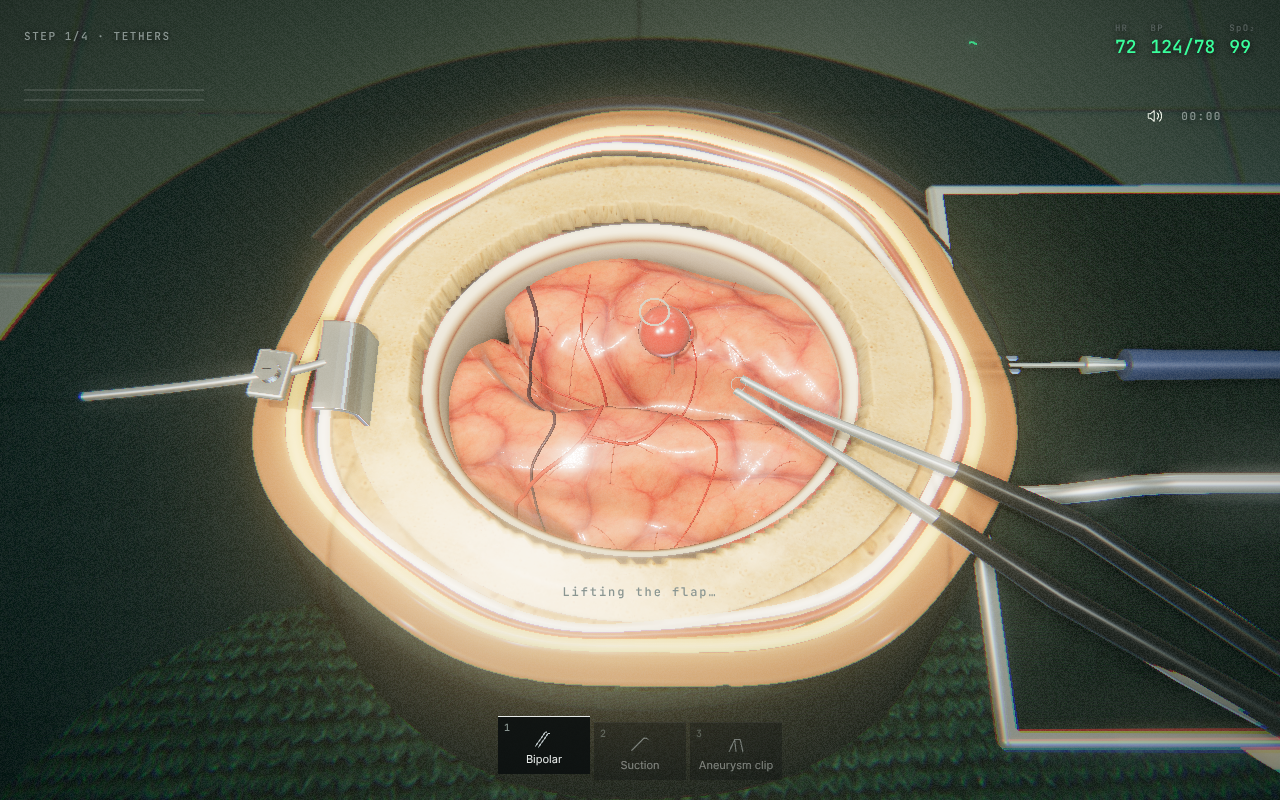
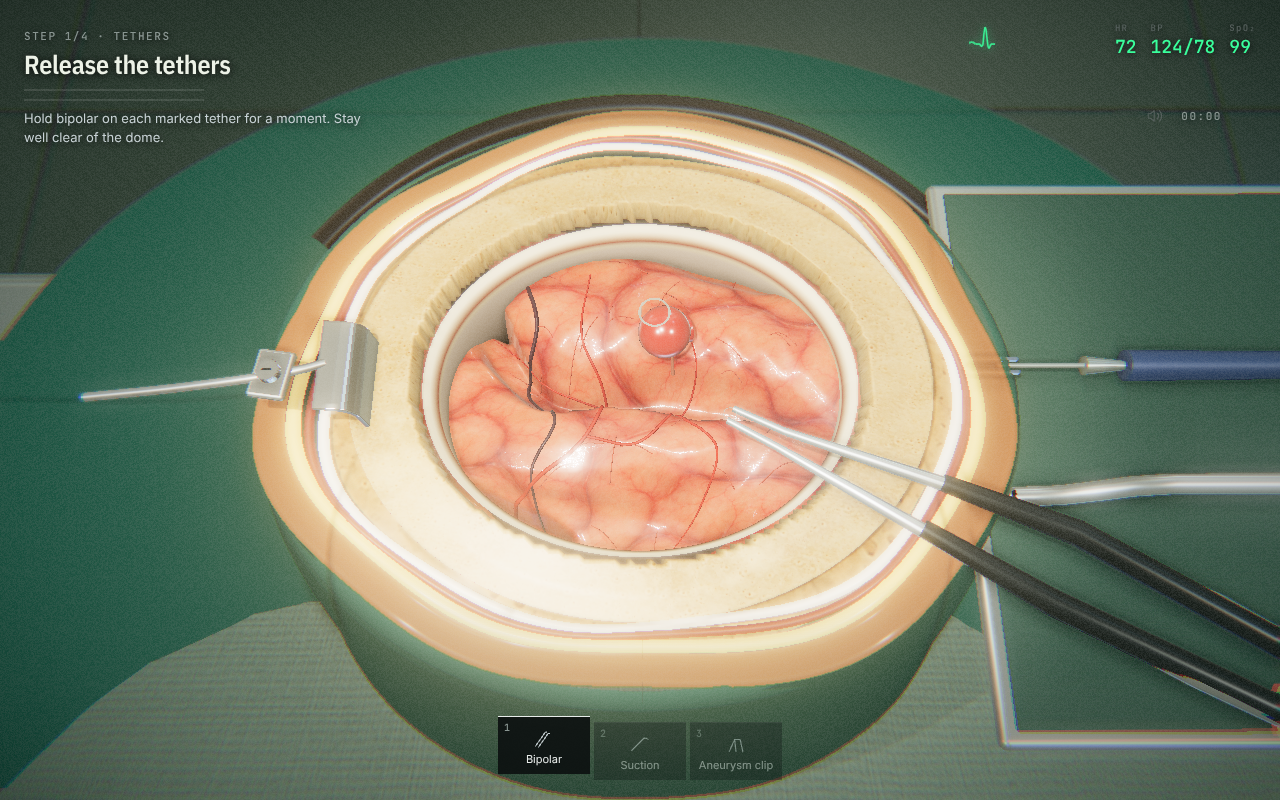
R3: surgical poplin drape texture (Poly Haven CC0), HDRLoader

diff --git a/src/game/engine.ts b/src/game/engine.ts
@@ -1,7 +1,7 @@
 import * as THREE from "three";
 import { GLTFLoader } from "three/addons/loaders/GLTFLoader.js";
 import { RoomEnvironment } from "three/addons/environments/RoomEnvironment.js";
-import { RGBELoader } from "three/addons/loaders/RGBELoader.js";
+import { HDRLoader } from "three/addons/loaders/HDRLoader.js";
 import { MeshBVH, acceleratedRaycast } from "three-mesh-bvh";
 import { buildField, type FieldObjects } from "./scene";
 import { SurgicalAudio } from "./audio";
@@ -435,7 +435,7 @@ export class Engine {
       if (this.disposed) return;
       try {
         // A real operating-room HDRI (Poly Haven, CC0) gives wet tissue and steel true reflections.
-        const hdr = await new RGBELoader().loadAsync(`${assetBase}env/surgery_1k.hdr`);
+        const hdr = await new HDRLoader().loadAsync(`${assetBase}env/surgery_1k.hdr`);
         hdr.mapping = THREE.EquirectangularReflectionMapping;
         const env = this.pmrem.fromEquirectangular(hdr);
         this.scene.environment = env.texture;

diff --git a/src/game/scene.ts b/src/game/scene.ts
@@ -140,14 +140,14 @@ export function buildField(
 ): FieldObjects {
   drape.colorSpace = THREE.SRGBColorSpace;
   drape.wrapS = drape.wrapT = THREE.RepeatWrapping;
-  drape.repeat.set(16, 16);
+  drape.repeat.set(34, 34);
   drape.anisotropy = 8;
   const cloth = new THREE.MeshStandardMaterial({
     map: drape,
     bumpMap: drape,
-    bumpScale: 0.016,
-    roughness: 0.98,
-    color: 0x3b7d8c,
+    bumpScale: 0.05,
+    roughness: 0.9,
+    color: 0x2f7468,
     side: THREE.DoubleSide,
   });
   mesh(ringGeometry(2.3, 8, 0.4, true), cloth, scene);
